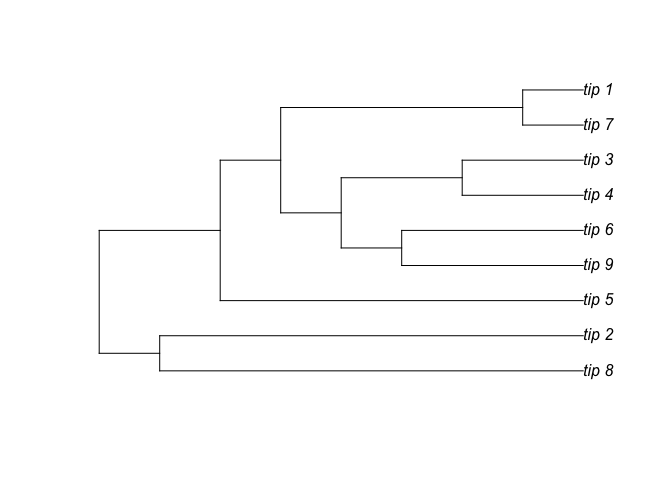
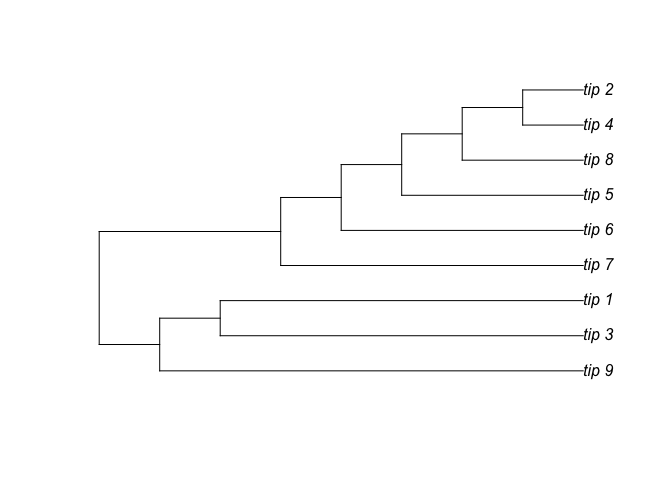
Fix in mutual info code

diff --git a/SS_info_gain_model.md b/SS_info_gain_model.md
@@ -3,103 +3,6 @@ Information gain model for trees
 Shashank Sule
 14/06/2021
 
-    ## Warning: package 'adegenet' was built under R version 3.6.2
-
-    ## Loading required package: ade4
-
-    ## Warning: package 'ade4' was built under R version 3.6.2
-
-    ## Registered S3 method overwritten by 'spdep':
-    ##   method   from
-    ##   plot.mst ape
-
-    ## 
-    ##    /// adegenet 2.1.3 is loaded ////////////
-    ## 
-    ##    > overview: '?adegenet'
-    ##    > tutorials/doc/questions: 'adegenetWeb()' 
-    ##    > bug reports/feature requests: adegenetIssues()
-
-    ## Warning: package 'ape' was built under R version 3.6.2
-
-    ## Warning: package 'apTreeshape' was built under R version 3.6.2
-
-    ## Registered S3 method overwritten by 'apTreeshape':
-    ##   method          from
-    ##   is.binary.phylo ape
-
-    ## 
-    ## Attaching package: 'apTreeshape'
-
-    ## The following object is masked from 'package:ape':
-    ## 
-    ##     is.binary.phylo
-
-    ## Warning: package 'BoSSA' was built under R version 3.6.2
-
-    ## Warning: package 'diversitree' was built under R version 3.6.2
-
-    ## 
-    ## Attaching package: 'diversitree'
-
-    ## The following object is masked from 'package:adegenet':
-    ## 
-    ##     get.likelihood
-
-    ## Warning: package 'pegas' was built under R version 3.6.2
-
-    ## Registered S3 method overwritten by 'pegas':
-    ##   method      from
-    ##   print.amova ade4
-
-    ## 
-    ## Attaching package: 'pegas'
-
-    ## The following object is masked from 'package:ape':
-    ## 
-    ##     mst
-
-    ## The following object is masked from 'package:ade4':
-    ## 
-    ##     amova
-
-    ## Warning: package 'phangorn' was built under R version 3.6.2
-
-    ## 
-    ## Attaching package: 'phangorn'
-
-    ## The following object is masked from 'package:pegas':
-    ## 
-    ##     dist.hamming
-
-    ## The following object is masked from 'package:adegenet':
-    ## 
-    ##     AICc
-
-    ## 
-    ## Attaching package: 'phylobase'
-
-    ## The following object is masked from 'package:diversitree':
-    ## 
-    ##     prune
-
-    ## The following object is masked from 'package:apTreeshape':
-    ## 
-    ##     ancestor
-
-    ## The following object is masked from 'package:ape':
-    ## 
-    ##     edges
-
-    ## Warning: package 'seqinr' was built under R version 3.6.2
-
-    ## 
-    ## Attaching package: 'seqinr'
-
-    ## The following objects are masked from 'package:ape':
-    ## 
-    ##     as.alignment, consensus
-
 # The model
 
 Let
@@ -149,19 +52,73 @@ Of course, this is a very general model but it’s worth spending some
 time about the choices of ![J](https://latex.codecogs.com/png.latex?J
 "J"). So far we’ve come up with the following:
 
-1.  Mutual Information
+1.  Information gain
 
-Setting ![J(X,Y) = I(X,Y) = H(X\_1, \\ldots, X\_n) - H(X\_1, \\ldots,
-X\_n \\mid Y\_1, \\ldots,
-Y\_n)](https://latex.codecogs.com/png.latex?J%28X%2CY%29%20%3D%20I%28X%2CY%29%20%3D%20H%28X_1%2C%20%5Cldots%2C%20X_n%29%20-%20H%28X_1%2C%20%5Cldots%2C%20X_n%20%5Cmid%20Y_1%2C%20%5Cldots%2C%20Y_n%29
-"J(X,Y) = I(X,Y) = H(X_1, \\ldots, X_n) - H(X_1, \\ldots, X_n \\mid Y_1, \\ldots, Y_n)")
-makes the most sense but this comes with a computational intractability.
-Assume, for simplicity, that
-![n=1](https://latex.codecogs.com/png.latex?n%3D1 "n=1"). Then This is
-because we
-have
+This model is used to make decision trees from given data
+![\\mathcal{S}](https://latex.codecogs.com/png.latex?%5Cmathcal%7BS%7D
+"\\mathcal{S}") containing data from a set of classes (typically it’s a
+binary set). Let ![A \\sqcup B =
+\\mathcal{S}](https://latex.codecogs.com/png.latex?A%20%5Csqcup%20B%20%3D%20%5Cmathcal%7BS%7D
+"A \\sqcup B = \\mathcal{S}") and ![P\_A =
+|A|/|\\mathcal{S}|](https://latex.codecogs.com/png.latex?P_A%20%3D%20%7CA%7C%2F%7C%5Cmathcal%7BS%7D%7C
+"P_A = |A|/|\\mathcal{S}|"). Then let ![Z \\sim
+X\_\\eta](https://latex.codecogs.com/png.latex?Z%20%5Csim%20X_%5Ceta
+"Z \\sim X_\\eta") where ![\\eta
+= 1](https://latex.codecogs.com/png.latex?%5Ceta%20%3D%201 "\\eta = 1")
+with probability ![P\_A](https://latex.codecogs.com/png.latex?P_A "P_A")
+and ![2](https://latex.codecogs.com/png.latex?2 "2") with probability
+![1 - P\_A](https://latex.codecogs.com/png.latex?1%20-%20P_A "1 - P_A").
+Considering
+![\\mathcal{S}](https://latex.codecogs.com/png.latex?%5Cmathcal%7BS%7D
+"\\mathcal{S}") as a set of samples from
+![Z](https://latex.codecogs.com/png.latex?Z "Z") we can actually compute
+![I(Z;\\eta) = H(Z) - H(Z \\mid \\eta) = H(\\mathcal{S}) - P\_A H(A) -
+(1 - P\_{A})
+H(B)](https://latex.codecogs.com/png.latex?I%28Z%3B%5Ceta%29%20%3D%20H%28Z%29%20-%20H%28Z%20%5Cmid%20%5Ceta%29%20%3D%20H%28%5Cmathcal%7BS%7D%29%20-%20P_A%20H%28A%29%20-%20%281%20-%20P_%7BA%7D%29%20H%28B%29
+"I(Z;\\eta) = H(Z) - H(Z \\mid \\eta) = H(\\mathcal{S}) - P_A H(A) - (1 - P_{A}) H(B)").
+This is the corrected version of the formula at the bottom of page 3 in
+`info_theory_ideas`. Using the notation of
+![x\_i](https://latex.codecogs.com/png.latex?x_i "x_i") from this
+document, we may also write it as ![I(x\_0; (x\_1, x\_2)) = H(x\_0) -
+\\alpha H(x\_1) -
+(1-\\alpha)H(x\_2)](https://latex.codecogs.com/png.latex?I%28x_0%3B%20%28x_1%2C%20x_2%29%29%20%3D%20H%28x_0%29%20-%20%5Calpha%20H%28x_1%29%20-%20%281-%5Calpha%29H%28x_2%29
+"I(x_0; (x_1, x_2)) = H(x_0) - \\alpha H(x_1) - (1-\\alpha)H(x_2)")
+where ![\\alpha](https://latex.codecogs.com/png.latex?%5Calpha
+"\\alpha") is the proportion of taxa in the partition
+![x\_1](https://latex.codecogs.com/png.latex?x_1 "x_1"). Here the
+expression “![(x\_1,
+x\_2)](https://latex.codecogs.com/png.latex?%28x_1%2C%20x_2%29
+"(x_1, x_2)")” is to be understood as the *tree* ![(x\_1,
+x\_2)](https://latex.codecogs.com/png.latex?%28x_1%2C%20x_2%29
+"(x_1, x_2)") in Newick and not the joint distribution ![(x\_1,
+x\_2)](https://latex.codecogs.com/png.latex?%28x_1%2C%20x_2%29
+"(x_1, x_2)"). We’ll have to be careful about this notation from now on.
+But computationally this strategy doesn’t give the most sensible tree
+for the simple case of ![n](https://latex.codecogs.com/png.latex?n "n")
+sequences of length 1.
 
-# Algorithm based on ![I(\\mathcal{P})](https://latex.codecogs.com/png.latex?I%28%5Cmathcal%7BP%7D%29 "I(\\mathcal{P})")
+2.  Symmetrised cross entropy
+
+Let ![p](https://latex.codecogs.com/png.latex?p "p") be the distribution
+of ![x\_1](https://latex.codecogs.com/png.latex?x_1 "x_1") and
+![q](https://latex.codecogs.com/png.latex?q "q") the distribution of
+![x\_2](https://latex.codecogs.com/png.latex?x_2 "x_2"). Then the cross
+entropy is ![H(p,q) := -\\sum\_{x}p(x)\\log\_2
+q(x)](https://latex.codecogs.com/png.latex?H%28p%2Cq%29%20%3A%3D%20-%5Csum_%7Bx%7Dp%28x%29%5Clog_2%20q%28x%29
+"H(p,q) := -\\sum_{x}p(x)\\log_2 q(x)"). Note that ![H(p,q) \\neq
+H(q,p)](https://latex.codecogs.com/png.latex?H%28p%2Cq%29%20%5Cneq%20H%28q%2Cp%29
+"H(p,q) \\neq H(q,p)") in general so we let ![J(X,Y) = J(x\_1, x\_2) =
+H(p,q) +
+H(q,p)](https://latex.codecogs.com/png.latex?J%28X%2CY%29%20%3D%20J%28x_1%2C%20x_2%29%20%3D%20H%28p%2Cq%29%20%2B%20H%28q%2Cp%29
+"J(X,Y) = J(x_1, x_2) = H(p,q) + H(q,p)"). The cross entropy is a value
+that compares how far ![q](https://latex.codecogs.com/png.latex?q "q")
+is from ![p](https://latex.codecogs.com/png.latex?p "p") and in source
+coding quantifies the minimum expected code length when the underlying
+probability distribution of the source is misunderstood as
+![q](https://latex.codecogs.com/png.latex?q "q") instead of
+![p](https://latex.codecogs.com/png.latex?p "p").
+
+# Algorithm based on Symmetrised cross entropy
 
 In the case where
 ![\\mathcal{S}](https://latex.codecogs.com/png.latex?%5Cmathcal%7BS%7D
@@ -181,14 +138,13 @@ symmetric cross entropy between
 ![Y](https://latex.codecogs.com/png.latex?Y "Y") to be
 
   
-![H(p,q) +
-H(q,p)](https://latex.codecogs.com/png.latex?H%28p%2Cq%29%20%2B%20H%28q%2Cp%29
-"H(p,q) + H(q,p)")  
+![J(X,Y) = H(p,q) +
+H(q,p)](https://latex.codecogs.com/png.latex?J%28X%2CY%29%20%3D%20H%28p%2Cq%29%20%2B%20H%28q%2Cp%29
+"J(X,Y) = H(p,q) + H(q,p)")  
 
 where ![X \\sim p](https://latex.codecogs.com/png.latex?X%20%5Csim%20p
 "X \\sim p") and ![Y \\sim
 q](https://latex.codecogs.com/png.latex?Y%20%5Csim%20q "Y \\sim q").
-Note that
 
   
 ![
@@ -283,13 +239,13 @@ plot(as.phylo(t[[1]]))
 Using `simseq` we’ll make sequences of length 1 representing the tree
 
 ``` r
-seqs <- simSeq(as.phylo(t[[1]]),l=1)
+seqs <- simSeq(as.phylo(t[[1]]),l=1, type = "DNA")
 ```
 
 Now let’s set up the main body of the algorithm
 
 ``` r
-mutual_info <- function(partition, sequence, pos){
+mutual_info <- function(partition, sequence, pos, J = "ce"){
 # inputs:
 # partition -- boolean denoting the partitions
 # sequence -- dataframe of type DNAbin or phyDat with each row an aligned sequence
@@ -308,26 +264,38 @@ B <- sequence[!partition,pos]
 # Computing p(x)
 
 p_x <- base.freq(as.DNAbin(A))
+p_a <- length(A)/length(sequence)
 
 # Computing p(y)
 
 p_y <- base.freq(as.DNAbin(B))
+p_b <- length(B)/length(sequence)
 
 # Computing p(x,y)
 
 I <- 0
 for(i in c(1:4)){
   if(p_xy[i] != 0 && p_x[i] != 0 && p_y[i] != 0){
-    I <- -p_x[i]*log2(p_y[i]) - p_y[i]*log2(p_x[i])
+    
+    if(J == "ce"){
+      #cross entropy 
+    I <- I -p_x[i]*log2(p_y[i]) - p_y[i]*log2(p_x[i]) 
+    }
+    
+    if(J == "ig"){
+      #information gain 
+    #I <- I -p_xy[i]*log2(p_xy[i]) + p_a*p_x[i]*log2(p_x[i]) + p_b*p_y[i]*log2(p_y[i])   
+    }
+    
   }
 }
 
-return(0.5*I)
+return(I)
 }
 ```
 
 ``` r
-infopart <- function(sequence){
+infopart <- function(sequence, J = "ce"){
 #input: 
 # sequence -- aligned sequence in DNAbin or phyDat 
 # output: 
@@ -359,17 +327,17 @@ if(length(sequence) == 1){
     partition <- as.logical(splitset(length(sequence))[i,])
     
         for(j in 1:attr(sequence, "nr")){
-            I <- I + mutual_info(partition, sequence, j)
+            I <- I + mutual_info(partition, sequence, j, J)
         }
     
-    print(paste("I =",I))
+    #print(paste("I =",I))
     
     if(I < max_val){
       max_val <- I 
       max_part <- partition
     }
   }
-   print(paste("The partition is ", max_part))
+   #print(paste("The partition is ", max_part))
    left_sequence <- sequence[max_part,]
    right_sequence <- sequence[!max_part,]
    left_string <- infopart(left_sequence)
@@ -383,3 +351,34 @@ if(length(sequence) == 1){
   return(tree_string)
 }
 ```
+
+# Results
+
+We check the trees produced by information gain and symmetrized cross
+entropy for the 9 tips with sequence length
+1.
+
+![](SS_info_gain_model_files/figure-gfm/unnamed-chunk-7-1.png)<!-- -->![](SS_info_gain_model_files/figure-gfm/unnamed-chunk-7-2.png)<!-- -->
+
+Both algorithms generate “sensible” trees in the sense that no two tips
+with two different nucleotide end up as terminal neighbours. From a
+glance at the sequence data we may demand that the most sensible tree
+must separate tip 6 first since it is the only one with its base.
+However, this sort of reasoning doesn’t take into account that there is
+nothing fundamental about “a” being different from “c” and so on. So
+from this perspective, one shouldn’t make too much of the time of
+branching events just yet. The main upshot of these trees (especially
+the cross-entropy one) is that they get the tree topologies in terms of
+the affinity of the tips right. The cross-entropy tree fares slightly
+better than the IG tree in this regard since its first speciation event
+is ![P\_1 = ((1,3,5),
+(2,4,6,7,8,9))](https://latex.codecogs.com/png.latex?P_1%20%3D%20%28%281%2C3%2C5%29%2C%20%282%2C4%2C6%2C7%2C8%2C9%29%29
+"P_1 = ((1,3,5), (2,4,6,7,8,9))") so it correctly separates the “c” taxa
+from the rest. Meanwhile, the first speciation event in the IG tree is
+![Q\_1 = ((1),
+(2,3,4,5,6,7,8,9))](https://latex.codecogs.com/png.latex?Q_1%20%3D%20%28%281%29%2C%20%282%2C3%2C4%2C5%2C6%2C7%2C8%2C9%29%29
+"Q_1 = ((1), (2,3,4,5,6,7,8,9))") so it seems that the information
+gained by ![Q\_1](https://latex.codecogs.com/png.latex?Q_1 "Q_1") is
+greater than that by ![P\_1](https://latex.codecogs.com/png.latex?P_1
+"P_1") which certainly does not correspond to our intutitions about
+information gain.
